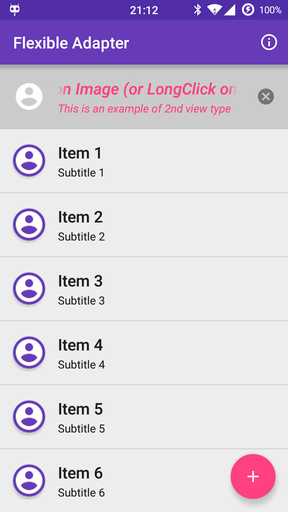
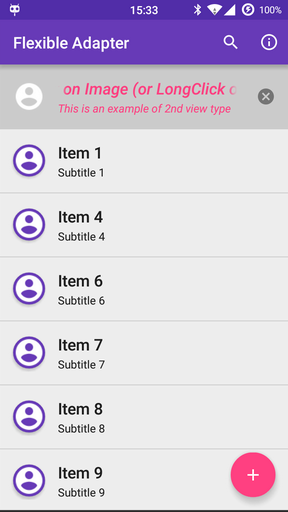
Added search Filter (experimental) and Undo functionality

diff --git a/flexibleAdapter/src/main/java/eu/davidea/flexibleadapter/MainActivity.java b/flexibleAdapter/src/main/java/eu/davidea/flexibleadapter/MainActivity.java
@@ -5,6 +5,7 @@ import android.app.SearchManager;
 import android.content.Context;
 import android.os.Build;
 import android.os.Bundle;
+import android.os.Handler;
 import android.support.design.widget.FloatingActionButton;
 import android.support.design.widget.Snackbar;
 import android.support.v4.content.res.ResourcesCompat;
@@ -139,17 +140,30 @@ public class MainActivity extends AppCompatActivity implements
 		return true;
 	}
 
-	private void initSearchView(Menu menu) {
+	private void initSearchView(final Menu menu) {
 		//Associate searchable configuration with the SearchView
 		Log.d(TAG, "onCreateOptionsMenu setup SearchView!");
 		SearchManager searchManager = (SearchManager) getSystemService(Context.SEARCH_SERVICE);
-		SearchView searchView = (SearchView) MenuItemCompat
+		final SearchView searchView = (SearchView) MenuItemCompat
 				.getActionView(menu.findItem(R.id.action_search));
 		searchView.setInputType(InputType.TYPE_TEXT_VARIATION_FILTER);
 		searchView.setImeOptions(EditorInfo.IME_ACTION_DONE | EditorInfo.IME_FLAG_NO_FULLSCREEN);
 		searchView.setQueryHint(getString(R.string.action_search));
 		searchView.setSearchableInfo(searchManager.getSearchableInfo(getComponentName()));
 		searchView.setOnQueryTextListener(this);
+		searchView.setOnSearchClickListener(new View.OnClickListener() {
+			@Override
+			public void onClick(View v) {
+				menu.findItem(R.id.action_about).setVisible(false);
+			}
+		});
+		searchView.setOnCloseListener(new SearchView.OnCloseListener() {
+			@Override
+			public boolean onClose() {
+				menu.findItem(R.id.action_about).setVisible(true);
+				return false;
+			}
+		});
 	}
 
 	@Override
@@ -164,6 +178,31 @@ public class MainActivity extends AppCompatActivity implements
 			searchView.setIconified(false);
 		}
 		return super.onPrepareOptionsMenu(menu);
+	}
+
+
+	@Override
+	public boolean onQueryTextChange(String newText) {
+		if (!ExampleAdapter.getSearchText().equalsIgnoreCase(newText)) {
+			Log.d(TAG, "onQueryTextChange newText: " + newText);
+			ExampleAdapter.setSearchText(newText);
+			mAdapter.getFilter().filter(newText);
+		}
+		//Due to Filter background Thread, give some short time to finish filtering
+		//Otherwise Adapter could not be synchronized with the new content
+		new Handler().postDelayed(new Runnable() {
+			@Override
+			public void run() {
+				updateEmptyView();
+			}
+		}, 100L);
+		return true;
+	}
+
+	@Override
+	public boolean onQueryTextSubmit(String query) {
+		Log.v(TAG, "onQueryTextSubmit called!");
+		return onQueryTextChange(query);
 	}
 
 	@Override
@@ -313,21 +352,24 @@ public class MainActivity extends AppCompatActivity implements
 					//TODO: Remove items from your database. Example:
 					//DatabaseService.getInstance().removeItem(mAdapter.getItem(i));
 				}
+
 				//Keep synchronized the Adapter: Remove selected items from Adapter
+				String message = mAdapter.getSelectedItems() + " " + getString(R.string.action_deleted);
 				mAdapter.removeItems(mAdapter.getSelectedItems());
+
 				//Snackbar for Undo
-				Snackbar.make(findViewById(R.id.main_view),
-							mAdapter.getSelectedItems() + " " + getString(R.string.action_deleted),
-							Snackbar.LENGTH_LONG) //This duration should be customizable when Google decides to make it.
+				//The duration should be customizable when Google decides to make it...
+				Snackbar.make(findViewById(R.id.main_view), message, Snackbar.LENGTH_LONG)
 						.setAction(R.string.undo, new View.OnClickListener() {
 							@Override
-								public void onClick(View v) {
+							public void onClick(View v) {
 									mAdapter.restoreDeletedItems();
 								}
 							})
 						.show();
 				mAdapter.startUndoTimer();
 				mActionMode.finish();
+
 				return true;
 			default:
 				return false;
@@ -366,22 +408,6 @@ public class MainActivity extends AppCompatActivity implements
 
 		//Close the App
 		super.onBackPressed();
-	}
-
-	@Override
-	public boolean onQueryTextChange(String newText) {
-		if (!ExampleAdapter.getSearchText().equalsIgnoreCase(newText)) {
-			Log.d(TAG, "onQueryTextChange newText: " + newText);
-			ExampleAdapter.setSearchText(newText);
-			mAdapter.getFilter().filter(newText);
-		}
-		return true;
-	}
-
-	@Override
-	public boolean onQueryTextSubmit(String query) {
-		Log.v(TAG, "onQueryTextSubmit called!");
-		return onQueryTextChange(query);
 	}
 
 }

diff --git a/README.md b/README.md
@@ -12,11 +12,9 @@ I've put the click listeners inside the ViewHolder and the Set is done at the cr
 
 Also note that this adapter handles the basic clicks: _single_ and _long clicks_. If you need a double tap you need to implement the android.view.GestureDetector.
 
-I still have to improve it, so keep an eye on it.
-I would like to add some new functionalities, like the Undo.
-
 # Screenshots
 ![Main screen](/screenshots/main_screen.png) ![Multi Selection](/screenshots/multi_selection.png)
+![Search screen](/screenshots/filter.png) ![Undo Screen](/screenshots/undo.png)
 
 #Setup
 Ultra simple:
